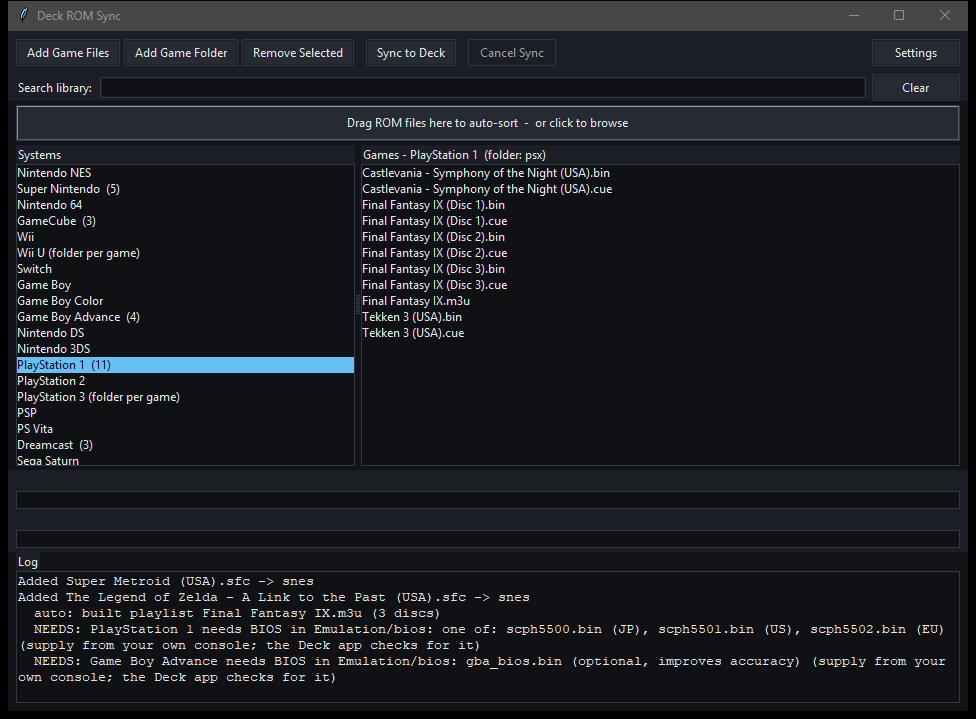
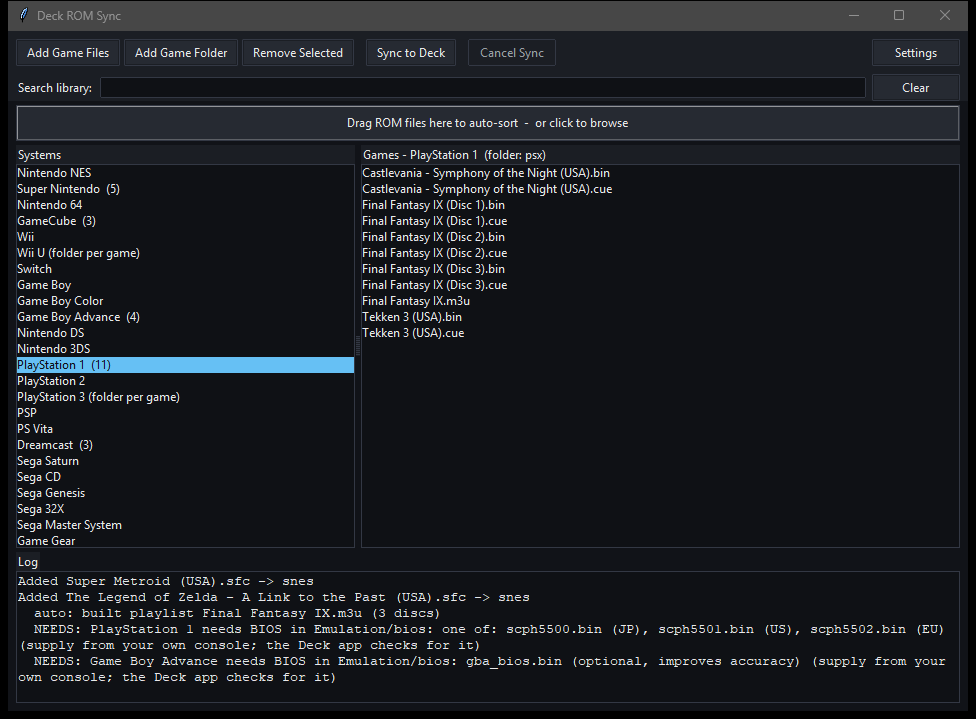
Add Deck ROM Sync project card

Changed region(s): [[0.0, 0.6426, 0.123, 0.765]]

diff --git a/index.html b/index.html
@@ -52,9 +52,9 @@
       media-server automation.
     </p>
     <div class="hero-stats">
-      <div class="stat"><span class="stat-num">5</span><span class="stat-label">Shipped projects</span></div>
+      <div class="stat"><span class="stat-num">6</span><span class="stat-label">Shipped projects</span></div>
       <div class="stat"><span class="stat-num">3</span><span class="stat-label">Platforms — desktop, web, Android</span></div>
-      <div class="stat"><span class="stat-num">3</span><span class="stat-label">Packaged Windows executables</span></div>
+      <div class="stat"><span class="stat-num">4</span><span class="stat-label">Packaged Windows executables</span></div>
     </div>
     <a class="hero-live print-only" href="https://tatsuota.github.io/portfolio/">🌐 View the live portfolio &nbsp;·&nbsp; tatsuota.github.io/portfolio</a>
   </div>
@@ -219,6 +219,88 @@
       </ul>
       <div class="tags">
         <span>JavaScript</span><span>HTML / CSS</span><span>IndexedDB</span><span>Android</span><span>Kotlin</span><span>Gradle</span>
+      </div>
+    </div>
+  </article>
+
+  <!-- ============ Deck ROM Sync ============ -->
+  <article class="project">
+    <div class="shot">
+      <div class="shot-chrome"><span></span><span></span><span></span><em>Deck ROM Sync</em></div>
+      <img src="images/deck-rom-sync.png" alt="Deck ROM Sync showing the emulator system list, PlayStation 1 game files, and the import log" loading="lazy">
+      <div class="shot-links">
+        <span class="shot-links-label">Get the app:</span>
+        <a href="https://tatsuota.github.io/portfolio/downloads/Deck-ROM-Sync.exe">⬇ Windows app <small>.exe · 17 MB</small></a>
+      </div>
+    </div>
+    <div class="info">
+      <div class="meta">
+        <span class="type">Windows Desktop App</span>
+        <span class="ai-badge">Built with Claude Code</span>
+      </div>
+      <h3>Deck ROM Sync</h3>
+      <p class="lede">A desktop app that mirrors a PC emulator library to a Steam Deck running EmuDeck over SSH — organize games on the PC, click once, and the Deck matches.</p>
+      <p>
+        EmuDeck expects ROMs in a precise folder per system, so keeping a Deck in
+        sync by hand means sorting files, building playlists for multi-disc games,
+        and copying everything over the network without losing track of what already
+        made it. This app manages that whole loop: it keeps the PC library in
+        EmuDeck's own layout, prepares files as they're imported, then mirrors each
+        system folder to the Deck over SFTP — uploading what's new or changed and
+        removing what you deleted, with the delete list shown for confirmation first.
+      </p>
+      <ul class="features">
+        <li>Drag ROMs onto the app and they're auto-sorted into the right system folder by extension; ambiguous types like <code>.iso</code>, <code>.bin</code>, and <code>.chd</code> prompt once for the system</li>
+        <li>Prepares files on import — writes a minimal <code>.cue</code> for a lone <code>.bin</code> and builds an <code>.m3u</code> playlist automatically when it detects <code>(Disc 1)</code>, <code>(Disc 2)</code>… sets</li>
+        <li>Flags the BIOS firmware each system needs but never downloads it — that stays something you dump from your own console</li>
+        <li>Sync runs over SFTP to <code>/home/deck/Emulation/roms/</code> with a per-file progress bar, an overall "file n of m" counter, and a Cancel button that stops cleanly mid-transfer</li>
+        <li>Deletions are previewed and confirmed once per session, so a removed PC file never silently disappears from the Deck unannounced</li>
+        <li>After syncing it uploads and runs a companion script on the Deck that verifies BIOS presence and <code>.cue</code>/<code>.m3u</code> integrity, then refreshes the ES-DE game list</li>
+        <li>Supports SSH key authentication so no password is ever stored on the PC; packaged as a standalone Windows <code>.exe</code></li>
+      </ul>
+      <div class="tags">
+        <span>Python</span><span>Tkinter</span><span>paramiko</span><span>SSH / SFTP</span><span>Steam Deck</span><span>PyInstaller</span>
+      </div>
+    </div>
+  </article>
+
+  <!-- ============ Deck ROM Sync ============ -->
+  <article class="project">
+    <div class="shot">
+      <div class="shot-chrome"><span></span><span></span><span></span><em>Deck ROM Sync</em></div>
+      <img src="images/deck-rom-sync.png" alt="Deck ROM Sync showing the emulator system list, PlayStation 1 game files, and the import log" loading="lazy">
+      <div class="shot-links">
+        <span class="shot-links-label">Get the app:</span>
+        <a href="https://tatsuota.github.io/portfolio/downloads/Deck-ROM-Sync.exe">⬇ Windows app <small>.exe · 17 MB</small></a>
+      </div>
+    </div>
+    <div class="info">
+      <div class="meta">
+        <span class="type">Windows Desktop App</span>
+        <span class="ai-badge">Built with Claude Code</span>
+      </div>
+      <h3>Deck ROM Sync</h3>
+      <p class="lede">A desktop app that mirrors a PC emulator library to a Steam Deck running EmuDeck over SSH — organize games on the PC, click once, and the Deck matches.</p>
+      <p>
+        EmuDeck expects ROMs in a precise folder per system, so keeping a Deck in
+        sync by hand means sorting files, building playlists for multi-disc games,
+        and copying everything over the network without losing track of what already
+        made it. This app manages that whole loop: it keeps the PC library in
+        EmuDeck's own layout, prepares files as they're imported, then mirrors each
+        system folder to the Deck over SFTP — uploading what's new or changed and
+        removing what you deleted, with the delete list shown for confirmation first.
+      </p>
+      <ul class="features">
+        <li>Drag ROMs onto the app and they're auto-sorted into the right system folder by extension; ambiguous types like <code>.iso</code>, <code>.bin</code>, and <code>.chd</code> prompt once for the system</li>
+        <li>Prepares files on import — writes a minimal <code>.cue</code> for a lone <code>.bin</code> and builds an <code>.m3u</code> playlist automatically when it detects <code>(Disc 1)</code>, <code>(Disc 2)</code>… sets</li>
+        <li>Flags the BIOS firmware each system needs but never downloads it — that stays something you dump from your own console</li>
+        <li>Sync runs over SFTP to <code>/home/deck/Emulation/roms/</code> with a per-file progress bar, an overall "file n of m" counter, and a Cancel button that stops cleanly mid-transfer</li>
+        <li>Deletions are previewed and confirmed once per session, so a removed PC file never silently disappears from the Deck unannounced</li>
+        <li>After syncing it uploads and runs a companion script on the Deck that verifies BIOS presence and <code>.cue</code>/<code>.m3u</code> integrity, then refreshes the ES-DE game list</li>
+        <li>Supports SSH key authentication so no password is ever stored on the PC; packaged as a standalone Windows <code>.exe</code></li>
+      </ul>
+      <div class="tags">
+        <span>Python</span><span>Tkinter</span><span>paramiko</span><span>SSH / SFTP</span><span>Steam Deck</span><span>PyInstaller</span>
       </div>
     </div>
   </article>